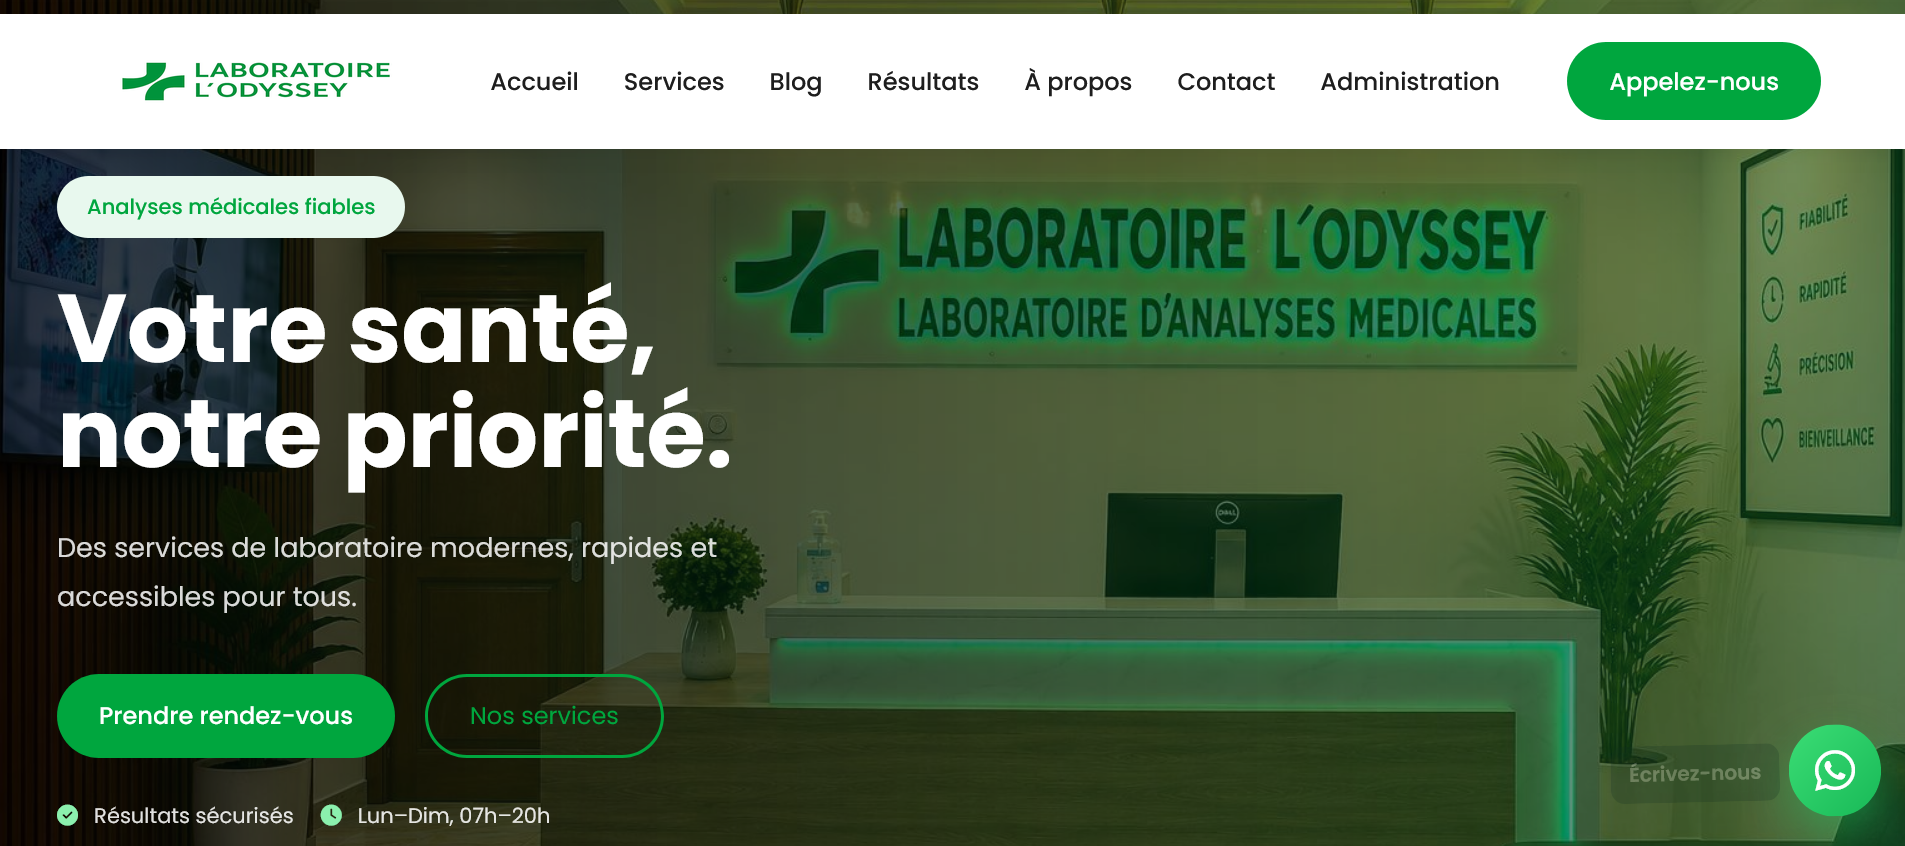
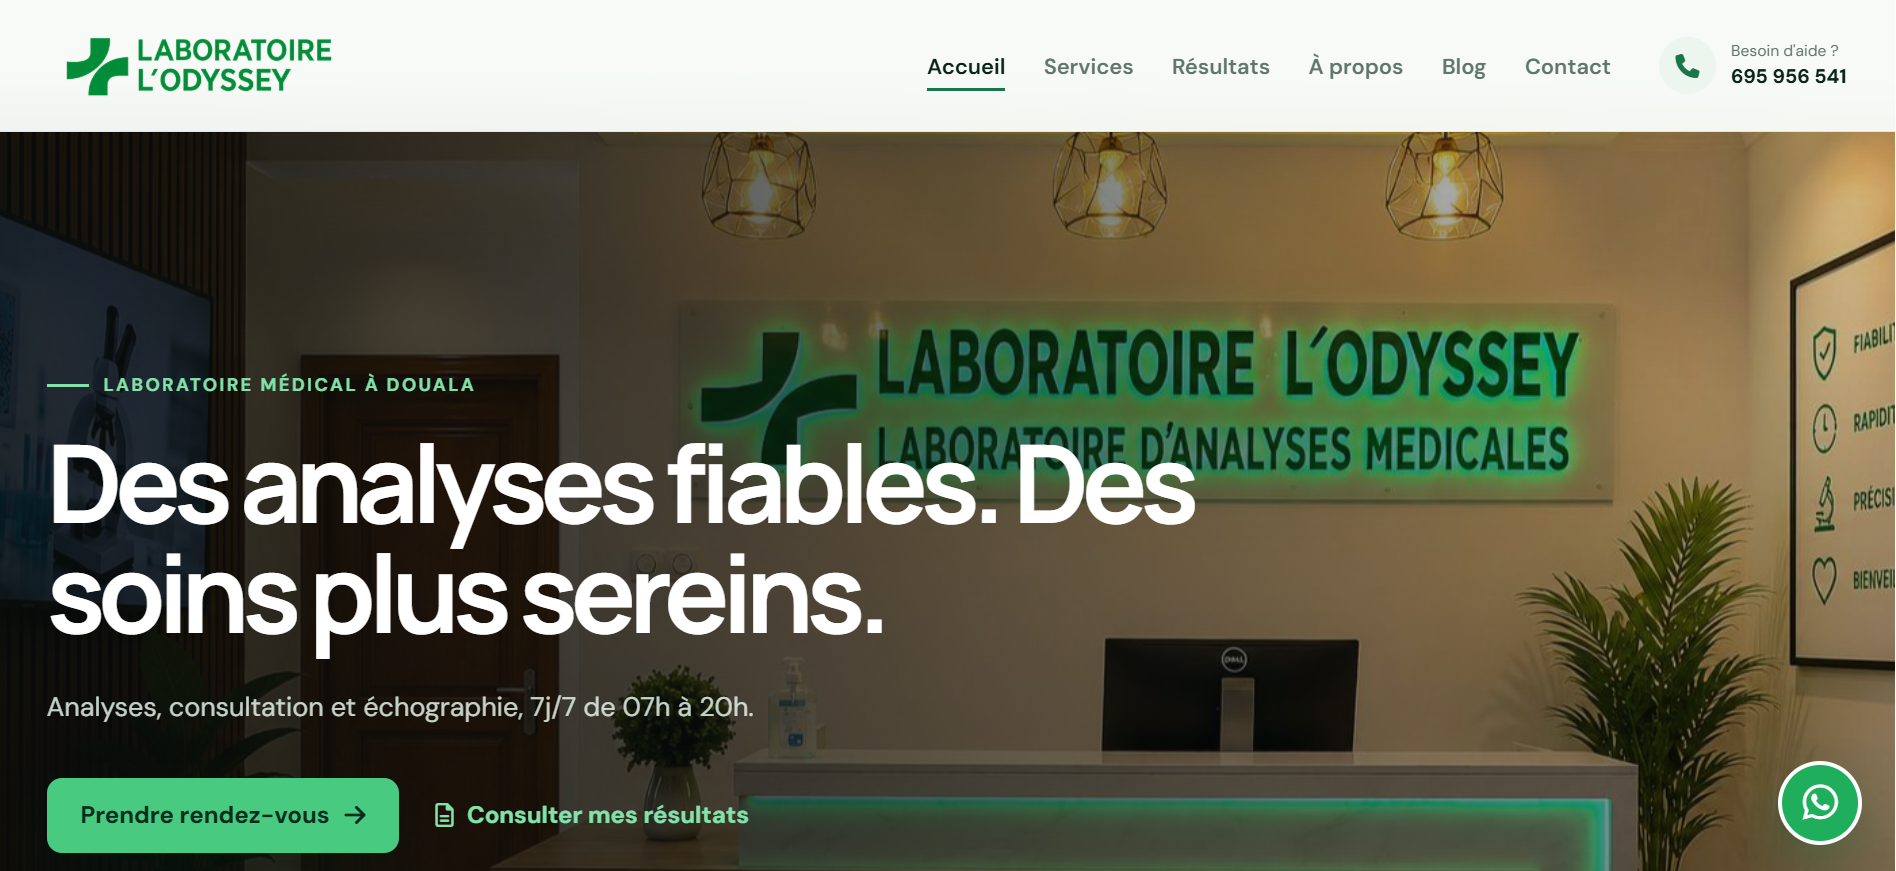
Updated projects and skills

diff --git a/index.html b/index.html
@@ -163,6 +163,9 @@
               <span><img src="https://cdn.jsdelivr.net/gh/devicons/devicon@latest/icons/css3/css3-original.svg" alt="">CSS3</span>
               <span><img src="https://cdn.jsdelivr.net/gh/devicons/devicon@latest/icons/javascript/javascript-original.svg" alt="">JavaScript</span>
               <span><img src="https://cdn.jsdelivr.net/gh/devicons/devicon@latest/icons/react/react-original.svg" alt="">React</span>
+              <span><img src="https://cdn.jsdelivr.net/gh/devicons/devicon@latest/icons/nextjs/nextjs-original.svg" alt="">Next.js</span>
+              <span><img src="https://cdn.jsdelivr.net/gh/devicons/devicon@latest/icons/typescript/typescript-original.svg" alt="">TypeScript</span>
+              <span><img src="https://cdn.jsdelivr.net/gh/devicons/devicon@latest/icons/tailwindcss/tailwindcss-original.svg" alt="">Tailwind CSS</span>
             </div>
           </div>
 
@@ -324,6 +327,9 @@
               </p>
 
               <div class="project-tech">
+                <span><img src="https://cdn.jsdelivr.net/gh/devicons/devicon@latest/icons/nextjs/nextjs-original.svg" alt="">Next.js</span>
+                <span><img src="https://cdn.jsdelivr.net/gh/devicons/devicon@latest/icons/typescript/typescript-original.svg" alt="">TypeScript</span>
+                <span><img src="https://cdn.jsdelivr.net/gh/devicons/devicon@latest/icons/tailwindcss/tailwindcss-original.svg" alt="">Tailwind CSS</span>
                 <span><img src="https://cdn.jsdelivr.net/gh/devicons/devicon@latest/icons/laravel/laravel-original.svg" alt="">Laravel</span>
                 <span><img src="https://cdn.jsdelivr.net/gh/devicons/devicon@latest/icons/php/php-original.svg" alt="">PHP</span>
                 <span><img src="https://cdn.jsdelivr.net/gh/devicons/devicon@latest/icons/postgresql/postgresql-original.svg" alt="">PostgreSQL</span>
@@ -337,13 +343,52 @@
           </article>
 
           <article class="project-card">
+            <div class="project-image project-orawellness">
+              <span class="project-image-label">Restaurant Web Platform</span>
+            </div>
+
+            <div class="project-content">
+              <div class="project-top">
+                <span class="project-index">02</span>
+                <span class="project-status project-status-live">Live</span>
+              </div>
+
+              <h3>Ora wellness</h3>
+
+              <p class="project-description">
+                A premium wellness and lifestyle website for a Douala-based destination combining Fitness, 
+                Pilates, Padel, Yoga, Studio, and Café experiences.
+              </p>
+
+              <div class="project-tech">
+                <span><img src="https://cdn.jsdelivr.net/gh/devicons/devicon@latest/icons/html5/html5-original.svg" alt="">HTML5</span>
+                <span><img src="https://cdn.jsdelivr.net/gh/devicons/devicon@latest/icons/css3/css3-original.svg" alt="">CSS3</span>
+                <span><img src="https://cdn.jsdelivr.net/gh/devicons/devicon@latest/icons/nextjs/nextjs-original.svg" alt="">Next.js</span>
+                <span><img src="https://cdn.jsdelivr.net/gh/devicons/devicon@latest/icons/typescript/typescript-original.svg" alt="">TypeScript</span>
+                <span><img src="https://cdn.jsdelivr.net/gh/devicons/devicon@latest/icons/tailwindcss/tailwindcss-original.svg" alt="">Tailwind CSS</span>
+              </div>
+
+              <div class="project-links">
+                <a
+                  href="https://ora-wellness-theta.vercel.app/"
+                  target="_blank"
+                  rel="noopener noreferrer"
+                  class="project-link"
+                >
+                  Live Demo <span>↗</span>
+                </a>
+              </div>
+            </div>
+          </article>
+
+          <article class="project-card">
             <div class="project-image project-gazexpress-react">
               <span class="project-image-label">Frontend Prototype</span>
             </div>
 
             <div class="project-content">
               <div class="project-top">
-                <span class="project-index">02</span>
+                <span class="project-index">03</span>
                 <span class="project-status project-status-live">Live</span>
               </div>
 
@@ -369,6 +414,47 @@
             </div>
           </article>
 
+          
+          <article class="project-card">
+            <div class="project-image project-lamarquise">
+              <span class="project-image-label">Restaurant Web Platform</span>
+            </div>
+
+            <div class="project-content">
+              <div class="project-top">
+                <span class="project-index">04</span>
+                <span class="project-status project-status-live">Live</span>
+              </div>
+
+              <h3>La marquise</h3>
+
+              <p class="project-description">
+                a responsive restaurant and fast-food website for a Douala-based brand,
+                 featuring separate Restaurant and Fast Food experiences, digital menus,
+                  WhatsApp ordering, reservation flows, location details, social links, and a premium mobile-first interface.
+              </p>
+
+              <div class="project-tech">
+                <span><img src="https://cdn.jsdelivr.net/gh/devicons/devicon@latest/icons/html5/html5-original.svg" alt="">HTML5</span>
+                <span><img src="https://cdn.jsdelivr.net/gh/devicons/devicon@latest/icons/css3/css3-original.svg" alt="">CSS3</span>
+                <span><img src="https://cdn.jsdelivr.net/gh/devicons/devicon@latest/icons/nextjs/nextjs-original.svg" alt="">Next.js</span>
+                <span><img src="https://cdn.jsdelivr.net/gh/devicons/devicon@latest/icons/typescript/typescript-original.svg" alt="">TypeScript</span>
+                <span><img src="https://cdn.jsdelivr.net/gh/devicons/devicon@latest/icons/tailwindcss/tailwindcss-original.svg" alt="">Tailwind CSS</span>
+              </div>
+
+              <div class="project-links">
+                <a
+                  href="https://la-marquise-restaurant.vercel.app/"
+                  target="_blank"
+                  rel="noopener noreferrer"
+                  class="project-link"
+                >
+                  Live Demo <span>↗</span>
+                </a>
+              </div>
+            </div>
+          </article>
+
           <article class="project-card">
             <div class="project-image project-odyssee">
               <span class="project-image-label">Medical Web Platform</span>
@@ -376,8 +462,8 @@
 
             <div class="project-content">
               <div class="project-top">
-                <span class="project-index">03</span>
-                <span class="project-status">Project</span>
+                <span class="project-index">05</span>
+                <span class="project-status project-status-live">Live</span>
               </div>
 
               <h3>Laboratoire L’Odyssée</h3>
@@ -393,10 +479,17 @@
                 <span><img src="https://cdn.jsdelivr.net/gh/devicons/devicon@latest/icons/css3/css3-original.svg" alt="">CSS3</span>
                 <span><img src="https://cdn.jsdelivr.net/gh/devicons/devicon@latest/icons/javascript/javascript-original.svg" alt="">JavaScript</span>
                 <span><img src="https://cdn.jsdelivr.net/gh/devicons/devicon@latest/icons/php/php-original.svg" alt="">PHP</span>
+                <span><img src="https://cdn.jsdelivr.net/gh/devicons/devicon@latest/icons/mysql/mysql-original.svg" alt="">MySQL</span>
               </div>
-
               <div class="project-links">
-                <span class="project-link project-link-muted">Demo coming soon</span>
+                <a
+                  href="https://laboratoire-l-odyssey.vercel.app/"
+                  target="_blank"
+                  rel="noopener noreferrer"
+                  class="project-link"
+                >
+                  Live Demo <span>↗</span>
+                </a>
               </div>
             </div>
           </article>
@@ -408,7 +501,7 @@
 
             <div class="project-content">
               <div class="project-top">
-                <span class="project-index">04</span>
+                <span class="project-index">06</span>
                 <span class="project-status project-status-live">Live</span>
               </div>
 

diff --git a/style.css b/style.css
@@ -703,8 +703,16 @@ section {
   background-image: url("image/Laboratoire\ L’Odyssey.png");
 }
 
+.project-lamarquise {
+  background-image: url("image/la-marquise.png");
+}
+
 .project-paul {
   background-image: url("image/paul.png");
+}
+
+.project-orawellness {
+  background-image: url("image/ora-wellness.png");
 }
 
 .project-image-label {
